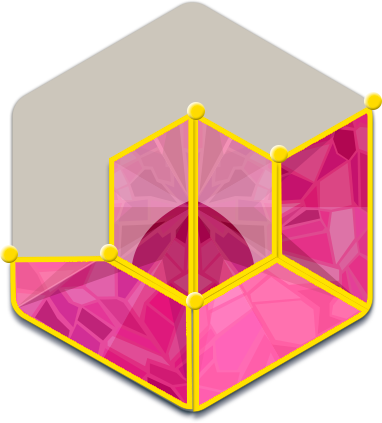
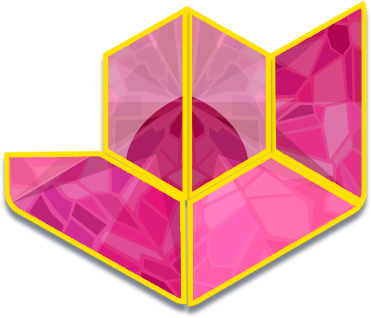
update sprites

diff --git a/PHASER/games/puzzle experiment/src/js/index.js b/PHASER/games/puzzle experiment/src/js/index.js
@@ -1,60 +1,42 @@
 class Game {
   constructor() {
     this.game  = null
-    this.panel = null
-    
-    this.PANEL_PARTS = 4
-    this.panelParams = {
-      width  : 200,
-      height : 200,
-      padding: 50,
-      offset : {
-        top : 50,
-        left: 0,
-      }
-    }
+    this.blocks = []
     
     this.crystalParts = [
       {
+        // key: 'crystalLeft',
+        key: 'itemPanel1',
+        x: 250,
+        y: 400,
+        anchor: {
+          x: 1,
+          y: 1
+        },
+        // angle: 47,
+        angle: 0,
+      },
+      {
+        key: 'crystalTop',
         x: 250,
         y: 80,
+        anchor: {
+          x: 0,
+          y: 0
+        },
         angle: 0,
-        key: 'crystalPart1'
       },
       {
+        key: 'crystalRight',
         x: 530,
         y: 130,
+        anchor: {
+          x: 0,
+          y: 0
+        },
         angle: 0,
-        key: 'crystalPart2'
       },
-      {
-        x: 125,
-        y: 310,
-        angle: 0,
-        key: 'crystalPart3'
-      }
     ]
-  }
-  
-  preload = () => {
-    this.game.load.image('bg', '/src/img/bg.jpg')
-    this.game.load.image('crystalBody', '/src/img/crystalBody.png')
-    this.game.load.image('crystalPart1', '/src/img/crystal_part1.png')
-    this.game.load.image('crystalPart2', '/src/img/crystal_part2.png')
-    this.game.load.image('crystalPart3', '/src/img/crystal_part3.png')
-  }
-  
-  create = () => {
-    this.game.add.sprite(0, 0, 'bg')
-    this.game.add.sprite(200, 200, 'crystalBody')
-    
-    this.createCrystalParts()
-  }
-  
-  createCrystalParts = () => {
-    this.crystalParts.forEach(item => {
-      this.game.add.sprite(item.x, item.y, item.key)
-    })
   }
   
   init() {
@@ -69,6 +51,86 @@ class Game {
         update : this.update,
         render : this.render
       })
+  }
+  
+  preload = () => {
+    this.game.load.image('bg', '/src/img/bg.jpg')
+    this.game.load.image('crystalBody', '/src/img/crystalBody.png')
+    this.game.load.image('crystalBodyWrap', '/src/img/crystalBody-wrap.png')
+    
+    this.game.load.image('crystalLeft', '/src/img/crystal_left.png')
+    this.game.load.image('itemPanel1', '/src/img/item_panel1.jpg')
+    this.game.load.image('crystalTop', '/src/img/crystal_top.png')
+    this.game.load.image('crystalRight', '/src/img/crystal_right.png')
+  }
+  
+  create = () => {
+    this.game.add.sprite(0, 0, 'bg')
+    this.game.add.sprite(200, 90, 'crystalBodyWrap')
+    this.game.add.sprite(200, 200, 'crystalBody')
+  
+    this.createCrystalParts()
+  }
+  
+  render = () => {
+    this.game.debug.spriteBounds(this.blocks[0])
+    this.game.debug.spriteBounds(this.blocks[1])
+    this.game.debug.spriteBounds(this.blocks[2])
+  }
+  
+  createCrystalParts = () => {
+    this.crystalParts.forEach(item => {
+      const crystal = this.game.add.sprite(item.x, item.y, item.key)
+      crystal.anchor.set(item.anchor.x, item.anchor.x)
+      crystal.angle = item.angle
+      this.blocks.push(crystal)
+      
+      // this.game.input.mouse.capture = true;
+
+      //input
+      crystal.inputEnabled = true;
+      // crystal.events.onInputDown.add(this.onInputDown)
+      // crystal.events.onInputOver.add(() => console.log('over'))
+      // crystal.events.onDragUpdate.add(() => console.log('onDragUpdate'))
+      // crystal.events.onInputUp.add(() => console.log('onInputUp'))
+
+      // drag
+      // crystal.events.onDragStart.add(this.onDragStart, this)
+      // crystal.events.onDragUpdate.add(this.onDragUpdate, this)
+      // crystal.events.onDragStop.add(this.onDragStop, this)
+      // crystal.input.enableDrag()
+  
+      if (item.key === 'itemPanel1') {
+        crystal.alpha = 0.8
+        crystal.anchor.set(0, 0.5)
+        
+        this.game.add.tween(crystal)
+          .to({
+            angle: -230,
+          }, Phaser.Timer.HALF / 2, Phaser.Easing.Linear.None, true).yoyo(true)
+      }
+
+    })
+  }
+  
+  onMove = () => {
+    console.log('MOVE')
+  }
+  
+  onInputDown = () => {
+    console.log('down')
+  }
+  
+  onDragStart = () => {
+    console.log('onDragStart')
+  }
+  
+  onDragUpdate = () => {
+    console.log('onDragUpdate')
+  }
+  
+  onDragStop = () => {
+    console.log('onDragStop')
   }
 }
 

diff --git a/PHASER/games/puzzle experiment/index.html b/PHASER/games/puzzle experiment/index.html
@@ -4,7 +4,7 @@
   <meta charset="UTF-8">
   <meta name="viewport" content="width=device-width, initial-scale=1">
   <link rel="shortcut icon" href="#" type="image/x-icon">
-  <title>Template Phaser</title>
+  <title>puzzle</title>
   <link rel="stylesheet" href="src/css/style.css">
   <script src="src/lib/phaser.min.js"></script>
 </head>
